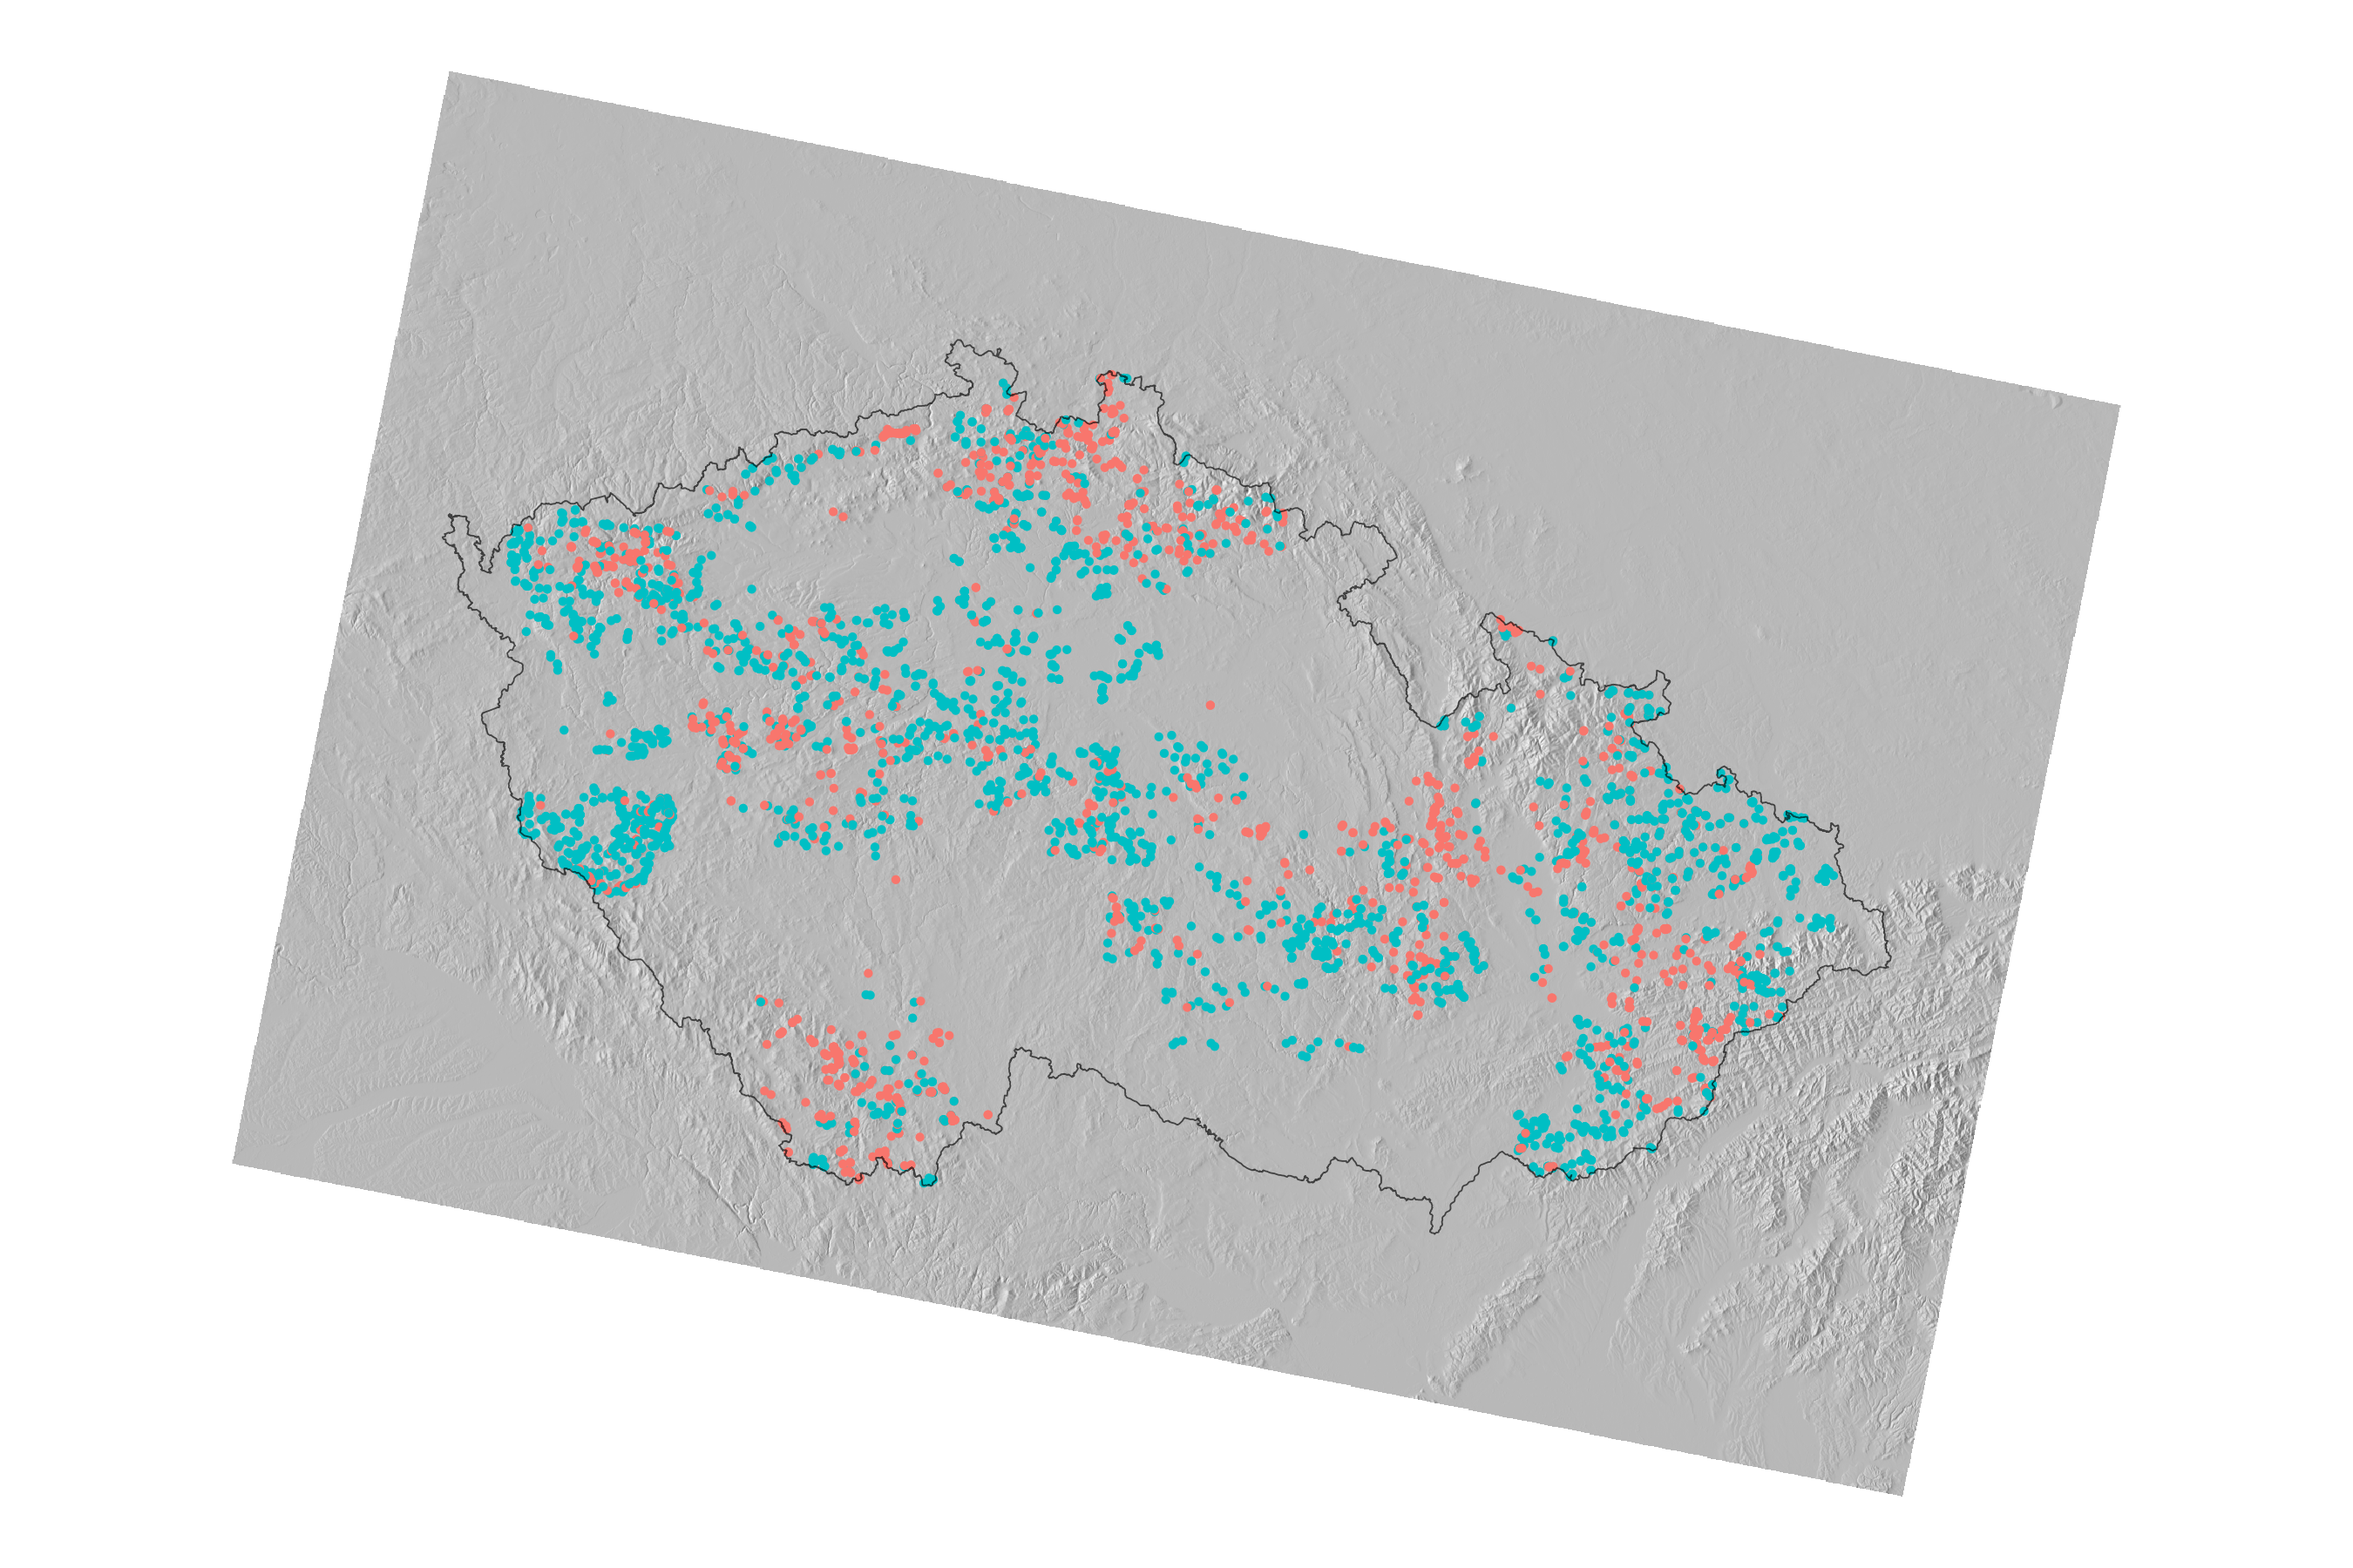
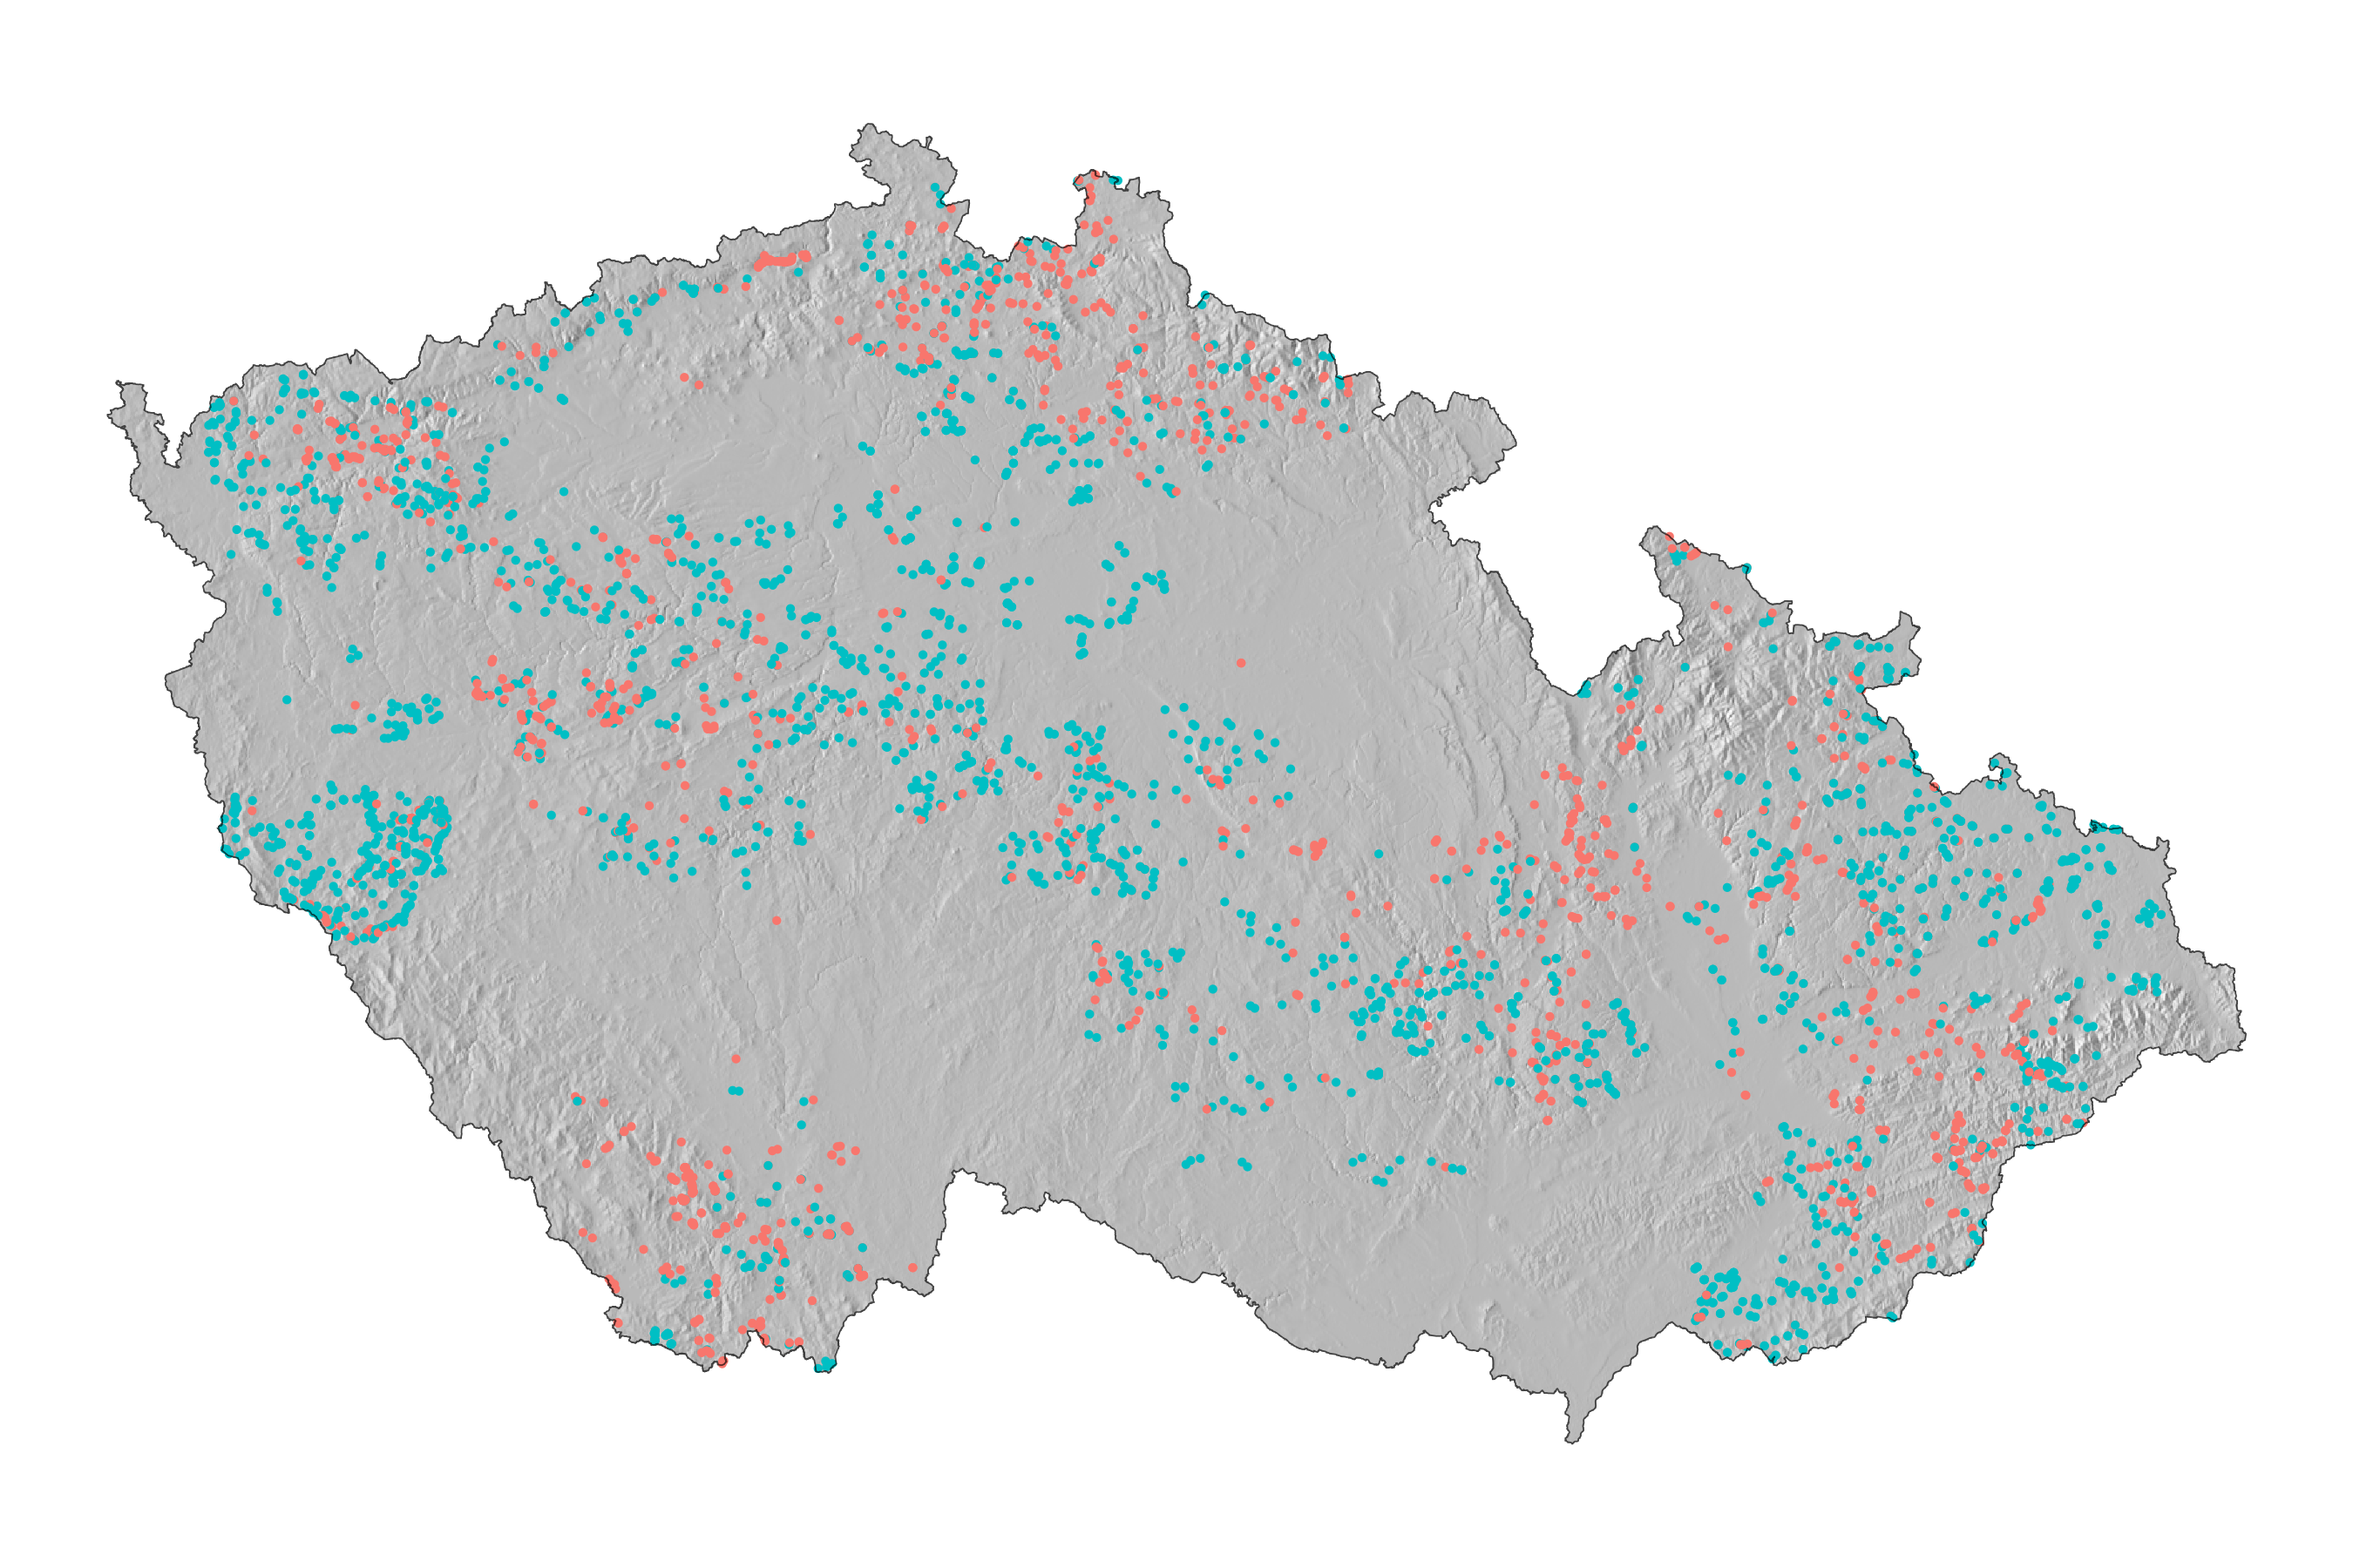
Clip the relief to the Czech border
The shaded relief is a rectangle in WGS84, so reprojecting it into the Krovak
grid left a rotated block of terrain extending well beyond Czechia. It is now
cropped and masked to the border, which also drops the cells that were only
there to fill the corners of the source rectangle.

diff --git a/Outputs/REPORT.md b/Outputs/REPORT.md
@@ -1,6 +1,6 @@
 # Phengaris spp. management in Czechia - analysis report
 
-_Compiled 2026-09-05 23:13:49_
+_Compiled 2026-09-05 23:21:32_
 
 Effects of grassland management on the occupancy of *Phengaris nausithous* and *Phengaris teleius* at monitored sites in Czechia, 2019-2024. Every table below is also written to `Outputs/Tables` as CSV and every figure to `Outputs/Figures` as PNG.
 
@@ -2064,7 +2064,7 @@ Full table: [`13_rda_tap_anova_by_term.csv`](Tables/13_rda_tap_anova_by_term.csv
 
 # Step 14 - Maps
 
-_Generated 2026-09-05 23:11:05_
+_Generated 2026-09-05 23:19:07_
 
 Distribution of the monitored sites and of the two species across the national mapping grid.
 
@@ -2088,7 +2088,7 @@ Full table: [`14_grid_coverage.csv`](Tables/14_grid_coverage.csv)
 
 The grid map previously referenced an object called `czechia`, which was never created, and printed an undefined `both_dist`. It now uses `czechia_border` from step 01, and the stray reference is gone.
 
-> **Note.** The relief map drew the shaded-relief raster without reprojecting it. The relief is delivered in WGS84 degrees while every other layer is in S-JTSK metres, and geom_raster() plots raw coordinates, so the two ended up in unrelated coordinate ranges: the raster never appeared and the country was squeezed into a corner. The raster is now projected to S-JTSK first. Its legend, which was labelled elevation but held shading intensity between 0 and 1, has been dropped.
+> **Note.** The relief map drew the shaded-relief raster without reprojecting it. The relief is delivered in WGS84 degrees while every other layer is in S-JTSK metres, and geom_raster() plots raw coordinates, so the two ended up in unrelated coordinate ranges: the raster never appeared and the country was squeezed into a corner. The raster is now projected to S-JTSK first. Its legend, which was labelled elevation but held shading intensity between 0 and 1, has been dropped. The relief is also masked to the border, because the source is a rectangle in WGS84 and reprojecting it left a rotated block of relief extending well outside Czechia.
 
 > **Note.** The grid map also matched the four-digit SITMAP code in the occurrence data against POLE in the grid layer, which identifies a quadrant of a basic field and always carries a letter suffix. Nothing ever matched, so the map came out as an empty outline. It now matches on the first four characters of POLE, which resolves all 364 surveyed fields to 1456 quadrants.
 

diff --git a/Outputs/Reports/14_maps.md b/Outputs/Reports/14_maps.md
@@ -1,6 +1,6 @@
 # Step 14 - Maps
 
-_Generated 2026-09-05 23:11:05_
+_Generated 2026-09-05 23:19:07_
 
 Distribution of the monitored sites and of the two species across the national mapping grid.
 
@@ -24,7 +24,7 @@ Full table: [`14_grid_coverage.csv`](../Tables/14_grid_coverage.csv)
 
 The grid map previously referenced an object called `czechia`, which was never created, and printed an undefined `both_dist`. It now uses `czechia_border` from step 01, and the stray reference is gone.
 
-> **Note.** The relief map drew the shaded-relief raster without reprojecting it. The relief is delivered in WGS84 degrees while every other layer is in S-JTSK metres, and geom_raster() plots raw coordinates, so the two ended up in unrelated coordinate ranges: the raster never appeared and the country was squeezed into a corner. The raster is now projected to S-JTSK first. Its legend, which was labelled elevation but held shading intensity between 0 and 1, has been dropped.
+> **Note.** The relief map drew the shaded-relief raster without reprojecting it. The relief is delivered in WGS84 degrees while every other layer is in S-JTSK metres, and geom_raster() plots raw coordinates, so the two ended up in unrelated coordinate ranges: the raster never appeared and the country was squeezed into a corner. The raster is now projected to S-JTSK first. Its legend, which was labelled elevation but held shading intensity between 0 and 1, has been dropped. The relief is also masked to the border, because the source is a rectangle in WGS84 and reprojecting it left a rotated block of relief extending well outside Czechia.
 
 > **Note.** The grid map also matched the four-digit SITMAP code in the occurrence data against POLE in the grid layer, which identifies a quadrant of a basic field and always carries a letter suffix. Nothing ever matched, so the map came out as an empty outline. It now matches on the first four characters of POLE, which resolves all 364 surveyed fields to 1456 quadrants.
 
